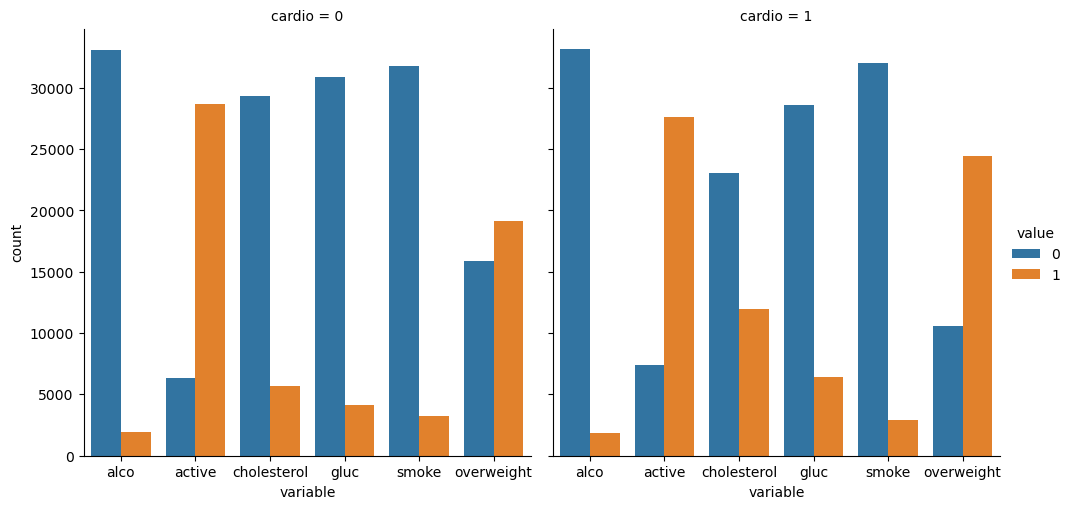
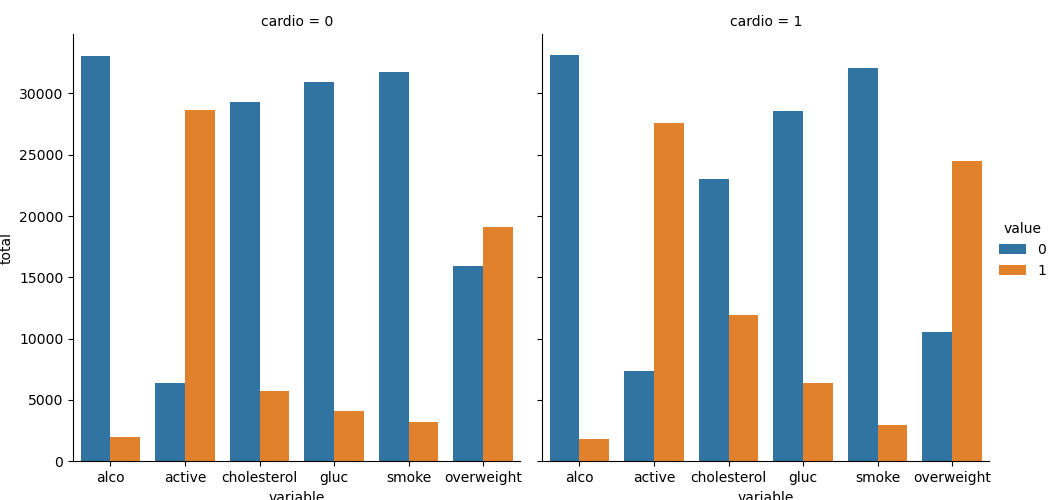
correct

diff --git a/medicalData/medical_data_visualizer.py b/medicalData/medical_data_visualizer.py
@@ -10,7 +10,7 @@ df = pd.read_csv('medical_examination.csv')
 df['overweight'] = df['weight']/(df['height']/100)**2
 
 # Normalize data by making 0 always good and 1 always bad. If the value of 'cholestorol' or 'gluc' is 1, make the value 0. If the value is more than 1, make the value 1.
-df['overweight'] = df['overweight'].apply(lambda x: 0 if x<=25 else 1)
+df['overweight'] = df['overweight'].apply(lambda x: 0 if x < 25 else 1)
 df['cholesterol'] = df['cholesterol'].apply(lambda x: 0 if x == 1 else 1)
 df['gluc'] = df['gluc'].apply(lambda x: 0 if x == 1 else 1)
 
@@ -20,9 +20,12 @@ def draw_cat_plot():
 	df_cat = pd.melt(df, id_vars='cardio', value_vars=['alco', 'active','cholesterol', 'gluc', 'smoke', 'overweight'])
 	# Group and reformat the data to split it by 'cardio'. Show the counts of each feature. You will have to rename one of the collumns for the catplot to work correctly.
 
+
 	# Draw the catplot with 'sns.catplot()'
 	fig = sns.catplot(data=df_cat, kind='count', x='variable', hue='value', col='cardio')
 
+	fig.set_ylabels('total')
+	fig = fig.fig
 	# Do not modify the next two lines
 	fig.savefig('catplot.png')
 	return fig
@@ -31,19 +34,19 @@ def draw_cat_plot():
 # Draw Heat Map
 def draw_heat_map():
 	# Clean the data
-	df_heat = df
-	df_heat = df_heat.loc[(df_heat['ap_lo'] <= df_heat['ap_hi'])]
-	df_heat = df_heat.loc[(df_heat['height'] >= df_heat['height'].quantile(0.025))]
-	df_heat = df_heat.loc[(df_heat['height'] <= df_heat['height'].quantile(0.975))]
-	df_heat = df_heat.loc[(df_heat['weight'] >= df_heat['weight'].quantile(0.025))]
-	df_heat = df_heat.loc[(df_heat['weight'] <= df_heat['weight'].quantile(0.975))]
+	df_heat = df[
+				(df['ap_lo'] <= df['ap_hi']) &
+				(df['height'] >= df['height'].quantile(0.025)) &
+				(df['height'] <= df['height'].quantile(0.975)) &
+				(df['weight'] >= df['weight'].quantile(0.025)) &
+				(df['weight'] <= df['weight'].quantile(0.975))
+				]
 
 	# Calculate the correlation matrix
 	corr = df_heat.corr()
 
 	# Generate a mask for the upper triangle
-	mask = np.zeros_like(corr)
-	mask[np.triu_indices_from(mask)] = True
+	mask = np.triu(corr)
 
 	# Set up the matplotlib figure
 	fig, ax = plt.subplots()
@@ -56,3 +59,5 @@ def draw_heat_map():
 	fig.savefig('heatmap.png')
 	return fig
 
+draw_cat_plot()
+draw_heat_map()
